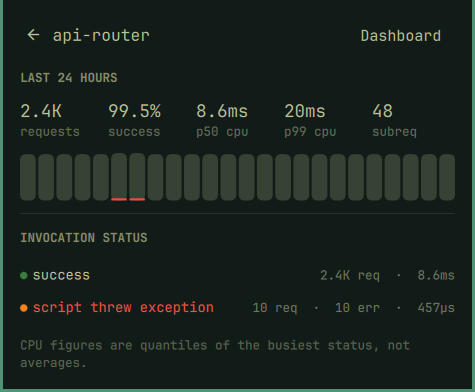
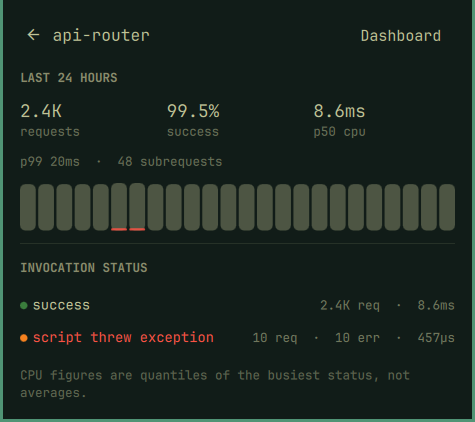
Spend the loudest colour on the worst news only
Any error at all painted a Worker's whole row urgent red, so api-router
throwing ten exceptions in two and a half thousand invocations shouted exactly
as loudly as image-resize failing twelve times out of twelve. On the README's
hero image both rows were red, which is the panel spending its strongest
signal on a rounding error. The row now crosses into red at the same 5% the
bar icon already uses for a zone's 5xx rate and sits in the brand amber below
it, and the colour is on the error count alone — the request count and the CPU
time beside it were never the bad news. The detail view's success rate draws
the same line, so a script that is red in the list is red when you open it.

`ACCOUNT · <name>` is a kicker on the rule above rather than a section header.
At header weight with nothing under it before the next header it read as a
section whose contents had failed to load; it names the scope of everything
below, so it is set like a label on the divide. The footer stops repeating the
account name two sections later, unless those sections are not on screen.

A Worker's detail shows three figures rather than five, for the reason the
zone view was cut to three. p99 and subrequests keep their numbers on the line
below, which is the weight they were always worth. Its graph is filled by
errors, so a healthy script has almost no fill and the track was carrying the
chart alone at an opacity picked for a track that gets covered up.
[…]

diff --git a/Cloudflarechy.qml b/Cloudflarechy.qml
@@ -168,6 +168,20 @@ Panel {
     return 0
   }
 
+  // A Worker throwing ten exceptions in two and a half thousand invocations is
+  // not the same as one that fails every time, and painting both the same red
+  // spends the loudest thing on the panel on a rounding error. The line is the
+  // one the bar icon already uses for a zone's 5xx rate, so the panel alarms
+  // about Workers and zones at the same place. Invocations that all failed are
+  // alarming whatever the count.
+  function workerAlarming(w) {
+    if (!w) return false
+    var errs = Number(w.errors || 0)
+    if (errs <= 0) return false
+    var reqs = Number(w.requests || 0)
+    return reqs <= 0 ? true : (errs / reqs) >= root.errorThreshold
+  }
+
   function workerRank(w) {
     if (!w) return -1
     if (Number(w.errors || 0) > 0) return 2
@@ -932,16 +946,30 @@ Panel {
           }
         }
 
+        // The dot is the shape cue, so it has to read as a separate shape.
+        // Drawn in the alert colour on a mark already in the alert colour it
+        // merged into the cloud's own silhouette and became a bump on the
+        // corner — the redundant encoding for anyone who cannot see the colour
+        // change, doing nothing for exactly the people it is there for. The
+        // gap in the bar's own background is what separates them.
         Rectangle {
           visible: root.attentionDot && root.attention
-          width: Style.space(5)
+          width: Style.space(7)
           height: width
           radius: width / 2
-          color: root.barAttention
+          color: root.bar && !root.bar.transparent ? root.bar.background : "transparent"
           anchors.right: parent.right
           anchors.top: parent.top
-          anchors.rightMargin: -Style.space(1)
-          anchors.topMargin: -Style.space(1)
+          anchors.rightMargin: -Style.space(2)
+          anchors.topMargin: -Style.space(2)
+
+          Rectangle {
+            anchors.centerIn: parent
+            width: Style.space(5)
+            height: width
+            radius: width / 2
+            color: root.barAttention
+          }
         }
       }
     }
@@ -1573,7 +1601,7 @@ Panel {
 
             MoreRow {
               count: root.hiddenRoutes
-              destination: "dashboard"
+              destination: "Dashboard"
               onActivated: root.openDashboard()
             }
           }
@@ -1605,12 +1633,19 @@ Panel {
           // Recedes on purpose. This names the scope of what follows; Tunnels
           // and Workers are the sections you came to read, so they keep full
           // weight and this sits behind them.
-          PanelSectionHeader {
+          // Not a PanelSectionHeader, though it used to be: at header weight
+          // with nothing under it before the next header, it read as a section
+          // whose contents had failed to load. It is a kicker on the rule
+          // above — everything below belongs to the account — so it is set
+          // like one.
+          Text {
             width: parent.width
             visible: root.accountSectionVisible
-            opacity: 0.7
-            foreground: root.foreground
-            fontFamily: root.fontFamily
+            font.family: root.fontFamily
+            font.pixelSize: Style.font.caption
+            color: root.foreground
+            opacity: 0.4
+            elide: Text.ElideRight
             textFormat: Text.PlainText
             text: root.accountName !== "" ? "ACCOUNT  ·  " + root.accountName : "ACCOUNT"
           }
@@ -1771,30 +1806,69 @@ Panel {
                   text: parent.modelData.name || ""
                 }
 
-                Text {
+                // Split rather than one string, because only one of these
+                // figures is ever the bad news. A single coloured line made a
+                // Worker's request count and its CPU time look like symptoms.
+                Row {
                   id: workerMeta
                   anchors.right: parent.right
                   anchors.rightMargin: Style.spacing.rowPaddingX
                   anchors.verticalCenter: parent.verticalCenter
-                  font.family: root.fontFamily
-                  font.pixelSize: Style.font.caption
-                  color: Number(parent.modelData.errors || 0) > 0
-                         ? Color.urgent : root.foreground
-                  opacity: Number(parent.modelData.errors || 0) > 0 ? 1.0 : 0.5
-                  textFormat: Text.PlainText
+                  spacing: 0
+
+                  readonly property var w: parent.modelData
                   // A Worker with no invocations in the window has no metrics
                   // row at all, which is not the same as one that ran zero
                   // times and reported it — so that case falls back to saying
                   // when it was last deployed.
-                  text: {
-                    var w = parent.modelData
-                    if (w.requests === undefined || w.requests === null)
-                      return root.ago(w.modified_on)
-                    var bits = [root.compact(w.requests) + " req"]
-                    if (Number(w.errors) > 0) bits.push(root.compact(w.errors) + " err")
-                    var cpu = root.cpuTime(w.cpu_p50_us)
-                    if (cpu !== "") bits.push(cpu)
-                    return bits.join("  ·  ")
+                  readonly property bool idle: !w || w.requests === undefined
+                                               || w.requests === null
+                  readonly property real errs: Number(w && w.errors || 0)
+                  readonly property string cpu: root.cpuTime(w && w.cpu_p50_us)
+
+                  Text {
+                    font.family: root.fontFamily
+                    font.pixelSize: Style.font.caption
+                    color: root.foreground
+                    opacity: 0.5
+                    textFormat: Text.PlainText
+                    text: workerMeta.idle
+                          ? root.ago(workerMeta.w && workerMeta.w.modified_on)
+                          : root.compact(workerMeta.w.requests) + " req"
+                  }
+
+                  Text {
+                    visible: !workerMeta.idle && workerMeta.errs > 0
+                    font.family: root.fontFamily
+                    font.pixelSize: Style.font.caption
+                    color: root.foreground
+                    opacity: 0.5
+                    textFormat: Text.PlainText
+                    text: "  ·  "
+                  }
+
+                  Text {
+                    visible: !workerMeta.idle && workerMeta.errs > 0
+                    font.family: root.fontFamily
+                    font.pixelSize: Style.font.caption
+                    // Urgent above the threshold, the brand amber below it: a
+                    // handful of failures is worth seeing and not worth
+                    // shouting, and amber is already what the panel uses for a
+                    // number that wants a second look.
+                    color: root.workerAlarming(workerMeta.w) ? Color.urgent : root.brand
+                    opacity: 1.0
+                    textFormat: Text.PlainText
+                    text: root.compact(workerMeta.errs) + " err"
+                  }
+
+                  Text {
+                    visible: !workerMeta.idle && workerMeta.cpu !== ""
+                    font.family: root.fontFamily
+                    font.pixelSize: Style.font.caption
+                    color: root.foreground
+                    opacity: 0.5
+                    textFormat: Text.PlainText
+                    text: "  ·  " + workerMeta.cpu
                   }
                 }
               }
@@ -1802,7 +1876,7 @@ Panel {
 
             MoreRow {
               count: root.hiddenWorkers
-              destination: "dashboard"
+              destination: "Dashboard"
               onActivated: root.openWorkersDashboard()
             }
           }
@@ -1834,7 +1908,11 @@ Panel {
             textFormat: Text.PlainText
             text: {
               var bits = []
-              if (root.accountName !== "") bits.push(root.accountName)
+              // Only when nothing above has said it. With the account sections
+              // on screen the kicker above already names the account, and the
+              // footer was repeating it two sections later.
+              if (root.accountName !== "" && !root.accountSectionVisible)
+                bits.push(root.accountName)
               if (root.tokenLabel !== "") bits.push(root.tokenLabel)
               if (root.tokenMessage !== "") bits.push(root.tokenMessage)
               if (root.updatedAt) bits.push("updated " + Qt.formatDateTime(root.updatedAt, "HH:mm"))
@@ -2205,45 +2283,58 @@ Panel {
                 : "LAST 24 HOURS"
           }
 
+          // Three, not five. The zone view was cut to three for legibility and
+          // this one kept cramming five across the same width, which left
+          // `p50 cpu` and `p99 cpu` set in a size that had to be leaned into.
+          // The two that lost their pedestal are the two nobody opens the
+          // panel to read; they are still here, on the line below.
           Row {
             width: parent.width
             visible: workerView.summary !== null
             spacing: Style.spacing.sm
 
             Stat {
-              width: (parent.width - Style.spacing.sm * 4) / 5
+              width: (parent.width - Style.spacing.sm * 2) / 3
               value: workerView.summary ? root.compact(workerView.summary.requests) : "—"
               label: "requests"
             }
 
             Stat {
-              width: (parent.width - Style.spacing.sm * 4) / 5
+              width: (parent.width - Style.spacing.sm * 2) / 3
               // 0% against no invocations would read as total failure. There
               // is no success rate for a Worker nothing asked for.
               value: workerView.summary && !workerView.idle
                      ? root.percentExact(workerView.summary.success_ratio) : "—"
               label: "success"
+              // The same line the Workers list draws, so a script that is red
+              // in the list is red when you open it and amber stays amber.
               valueColor: workerView.summary && !workerView.idle
-                          && Number(workerView.summary.success_ratio) < 0.99
+                          && Number(workerView.summary.success_ratio) < 1 - root.errorThreshold
                           ? Color.urgent : root.foreground
             }
 
             Stat {
-              width: (parent.width - Style.spacing.sm * 4) / 5
+              width: (parent.width - Style.spacing.sm * 2) / 3
               value: workerView.summary ? root.cpuTime(workerView.summary.cpu_p50_us) : "—"
               label: "p50 cpu"
             }
+          }
 
-            Stat {
-              width: (parent.width - Style.spacing.sm * 4) / 5
-              value: workerView.summary ? root.cpuTime(workerView.summary.cpu_p99_us) : "—"
-              label: "p99 cpu"
-            }
-
-            Stat {
-              width: (parent.width - Style.spacing.sm * 4) / 5
-              value: workerView.summary ? root.compact(workerView.summary.subrequests) : "—"
-              label: "subreq"
+          Text {
+            width: parent.width
+            visible: workerView.summary !== null
+            font.family: root.fontFamily
+            font.pixelSize: Style.font.caption
+            color: root.foreground
+            opacity: 0.5
+            textFormat: Text.PlainText
+            text: {
+              if (!workerView.summary) return ""
+              var bits = []
+              var p99 = root.cpuTime(workerView.summary.cpu_p99_us)
+              if (p99 !== "") bits.push("p99 " + p99)
+              bits.push(root.compact(workerView.summary.subrequests) + " subrequests")
+              return bits.join("  ·  ")
             }
           }
 
@@ -2253,6 +2344,9 @@ Panel {
           Sparkline {
             id: workerGraph
             width: parent.width
+            // A Worker at 99.5% success has almost no fill, so the bars carry
+            // this chart on their own and need the weight to do it.
+            trackOpacity: 0.34
             visible: workerView.detail !== null
                      && (workerView.detail.series || []).length > 0
             series: workerView.detail ? (workerView.detail.series || []) : []

diff --git a/Sparkline.qml b/Sparkline.qml
@@ -40,6 +40,11 @@ Item {
   property color foreground: Color.foreground
   property color accent: "#f6821f"
   property real barSpacing: Style.spacing.xxs
+  // How present the unfilled part of a bar is. On the zone graph the fill
+  // covers most of it and a ghost of a track is right; on a Worker's graph the
+  // fill is the error share, which on a healthy script is nothing at all, so
+  // the track *is* the chart and a ghost reads as a disabled control.
+  property real trackOpacity: 0.22
 
   // Which bucket the pointer is over, or -1. The chart deliberately does not
   // draw the figure itself: at this width a floating label would cover the
@@ -110,8 +115,9 @@ Item {
           // The hovered bar lifts out of the row. Without it the line below
           // names an hour the eye cannot find again among twenty-three
           // identical neighbours.
-          readonly property real shade: root.hoveredIndex === bucket.index ? 0.42
-                                        : parent.ratio > 0 ? 0.22 : 0.10
+          readonly property real shade: root.hoveredIndex === bucket.index
+                                        ? root.trackOpacity + 0.2
+                                        : parent.ratio > 0 ? root.trackOpacity : 0.10
           color: Qt.rgba(root.foreground.r, root.foreground.g,
                          root.foreground.b, shade)
 

diff --git a/CHANGELOG.md b/CHANGELOG.md
@@ -1,5 +1,32 @@
 # Changelog
 
+## 0.8.2
+
+- A Worker that fails a little no longer looks like one that fails entirely.
+  Any error at all painted the whole row urgent red, so ten exceptions in two
+  and a half thousand invocations shouted exactly as loudly as twelve failures
+  out of twelve. The row now crosses into red at the same 5% the bar icon uses
+  for a zone's 5xx rate and sits in the brand amber below it, and only the
+  error count is coloured — the request count and the CPU time beside it were
+  never the bad news.
+- `ACCOUNT · <name>` is set as a kicker rather than a section header. At header
+  weight with nothing beneath it before the next header, it read as a section
+  whose contents had failed to load; it names the scope of everything below the
+  rule, so it is set like a label on that rule. The footer no longer repeats
+  the account name two sections later, unless those sections are absent.
+- A Worker's detail view shows three figures rather than five. The zone view
+  was cut to three for legibility and this one went on cramming five across the
+  same width; p99 and subrequests keep their numbers on the line below, which
+  is the weight they were always worth.
+- A healthy Worker's graph reads as a graph. Its bars are filled by errors, so
+  a script at 99.5% success has almost no fill and the track was carrying the
+  chart alone at an opacity chosen for a track that gets covered up.
+- The bar's attention dot is separated from the mark it sits on. It is the
+  shape cue for anyone who cannot see the colour change, and drawn in the alert
+  colour on a mark already in the alert colour it merged into the cloud's own
+  silhouette — doing nothing for precisely the people it exists for.
+- A capped list offers **Dashboard**, not **dashboard**.
+
 ## 0.8.1
 
 - The README screenshots are regenerated by `tests/capture.sh` instead of by

diff --git a/README.md b/README.md
@@ -142,6 +142,11 @@ throwing outranks one that is quiet. The count in each heading is always the
 true total. Four items show all four, because `+1 more` costs the same line
 the row itself would have.
 
+A Worker's figures go amber the moment it throws anything and red once more
+than 5% of its invocations fail — the same line the bar icon draws for a zone's
+5xx rate. Only the error count is coloured: ten failures in two and a half
+thousand is worth seeing and is not the same news as twelve out of twelve.
+
 **Routes** — which Workers answer for this domain, and on what pattern. This is
 zone-scoped: it changes with the zone picker, unlike the Workers list below the
 account break, which is every script in the account. The same Worker can appear
@@ -233,8 +238,9 @@ zero times, so it falls back to saying when it was last deployed.
 
 ![One Worker in detail](worker.png)
 
-Requests, success rate, p50 and p99 CPU, subrequests, its own 24h graph with
-errors filled in, and the invocation-status breakdown — which is where a
+Requests, success rate and p50 CPU across the top, with p99 and subrequests on
+the line under them, its own 24h graph with errors filled in, and the
+invocation-status breakdown — which is where a
 failure actually gets explained, since `scriptThrewException` and
 `clientDisconnected` mean very different things and the dashboard buries both.
 Each status keeps its own quantiles rather than inheriting the headline pair.
